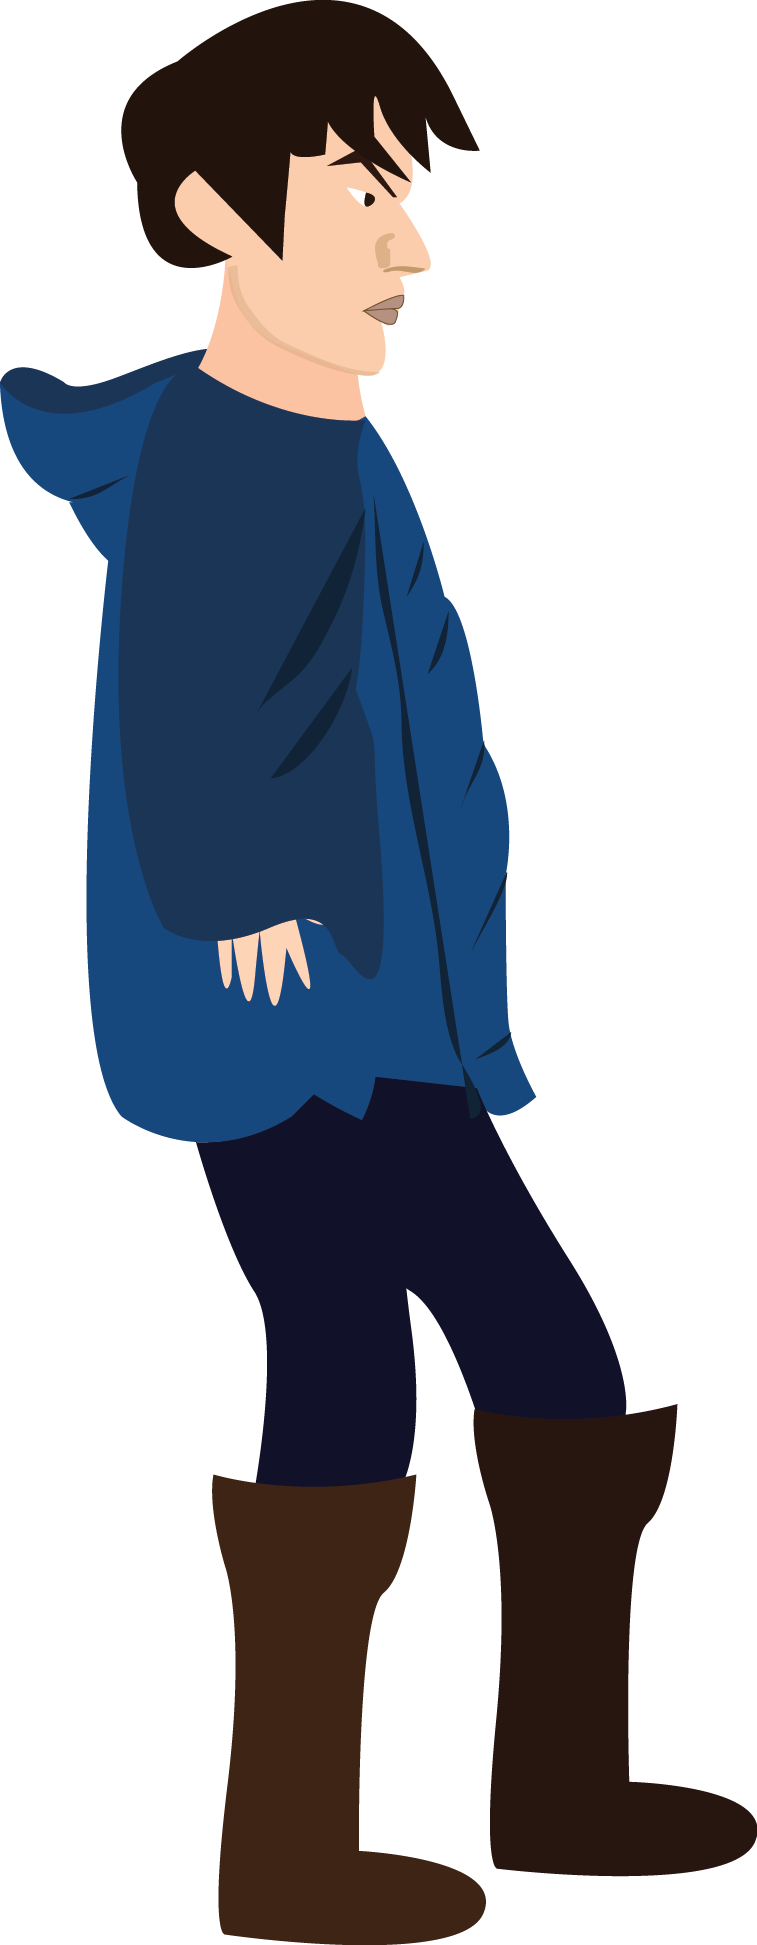
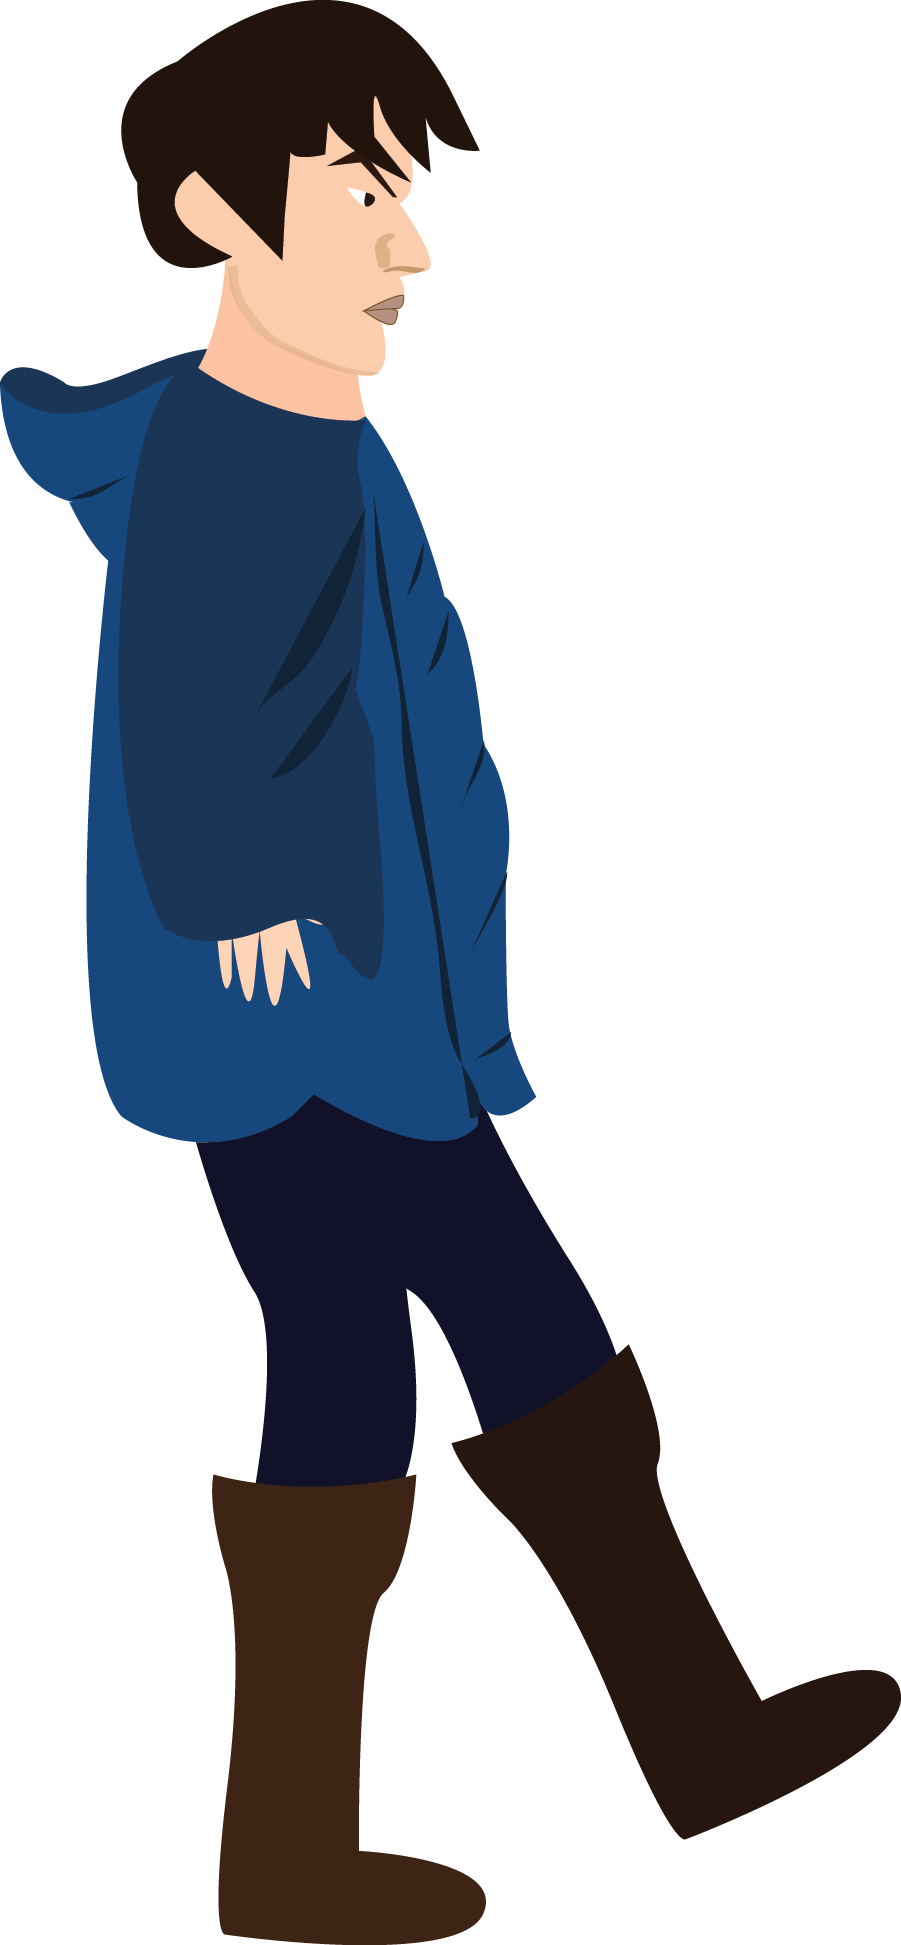
making it so that player does animation while pressing a and d

diff --git a/utils.py b/utils.py
@@ -180,12 +180,15 @@ class player(sprite):
         self.facing_right = True
         self.facing_left = False
 
+
         self.shield_images = load_Image('art/apprentice_moves/shield/')
         self.shield_sprites = self.shield_images
         self.shield_left_sprites  = flip_array_images(self.shield_images)
         self.index = 0
         self.shield_current_Image = self.shield_images[self.index]
         '''end of shield'''
+        ''' current image for all animation'''
+        self.current_image =  self.shield_current_Image
 
         '''moving normal without shield'''
         self.walk_images = load_Image('art/apprentice_moves/normal_move/')
@@ -237,14 +240,28 @@ class player(sprite):
         if self.current_frame >= self.animation_frames:
             self.current_frame = 0
 
-            if self.shiled_hold != True:
+            #if the character is not moving but having the shield on
+            if self.shiled_hold != True and self.facing_right == False and self.facing_left == False:
                 self.index = (self.index + 1) % len(self.shield_images)
                 if self.index == 2:
 
-                    self.shield_current_Image = self.shield_images[2]
+                    self.current_image = self.shield_images[2]
+
                     self.shiled_hold = True
                 else:
-                    self.shield_current_Image = self.shield_images[self.index]
+                    self.current_image = self.shield_images[self.index]
+
+            #if the player is is moving to the righ but not using the shield
+            if self.facing_right == True and self.shiled_hold == False:
+                self.index = (self.index + 1) % len(self.walk_images)
+                self.current_image = self.walk_images[self.index]
+
+            #if the player is moving to the left and not using the shield
+            if self.facing_left == True and self.shiled_hold == False:
+                self.index = (self.index + 1) % len(self.walk_left)
+                self.current_image = self.walk_left[self.index]
+
+
 
         if self.shield:
             s_top = center[1] - self.radius
